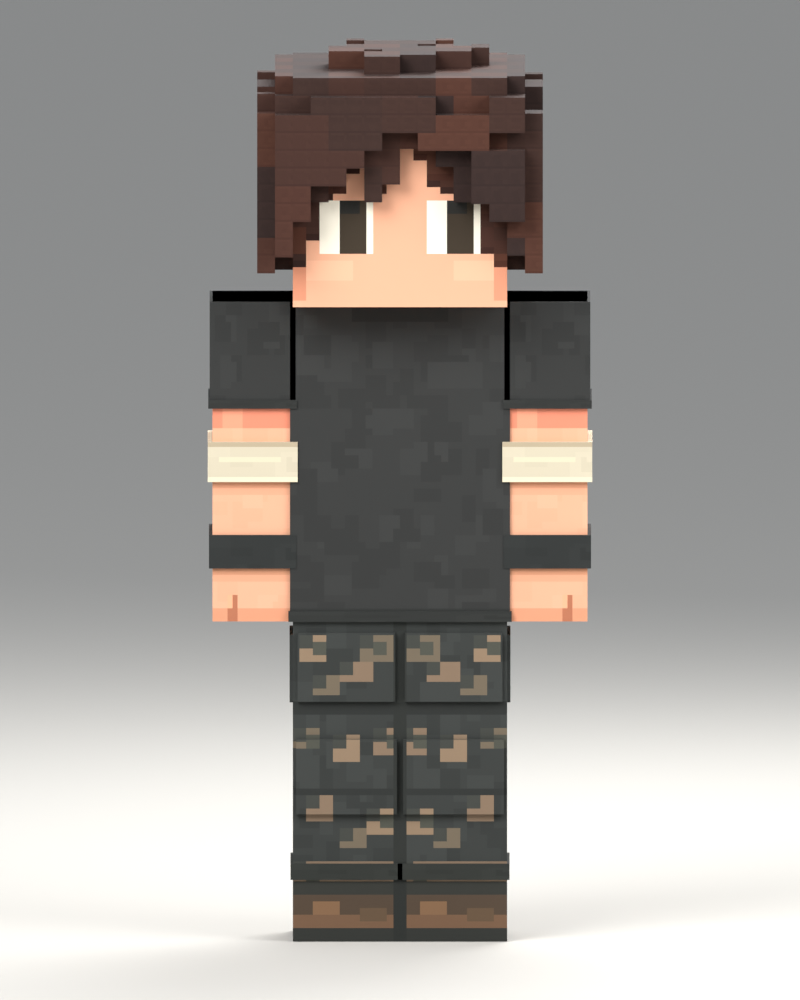
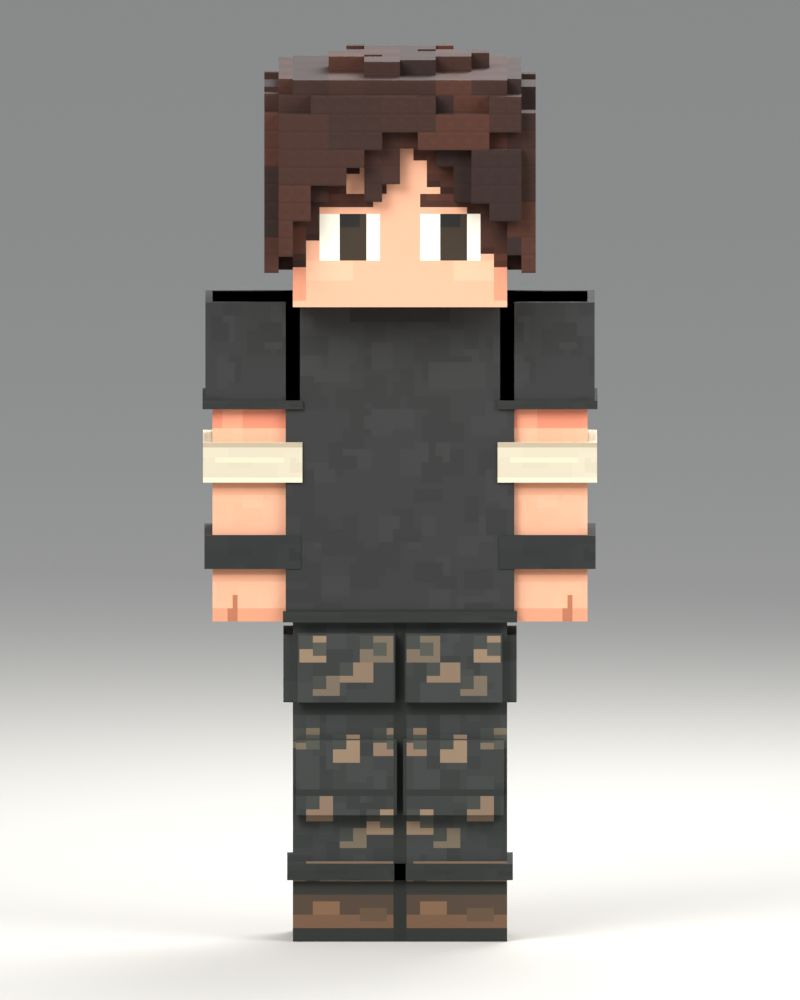
chore(project): change 8 project files
Modified: 8.
Text lines: +57 / -30; binary files: 3.
- Modify: "blender/characters/player/reviews/survivor_reference_v001/Survivor_Reference_v001.blend"
- Modify: "blender/characters/player/reviews/survivor_reference_v001/build_candidate.py"
- Modify: "blender/characters/player/reviews/survivor_reference_v001/make_atlas.py"
- Modify: "blender/characters/player/reviews/survivor_reference_v001/model_validation.json"
- Modify: "blender/characters/player/reviews/survivor_reference_v001/package_review.py"
- Modify: "blender/characters/player/reviews/survivor_reference_v001/renders/Front.png" (binary)
- Modify: "blender/characters/player/reviews/survivor_reference_v001/renders/Front_3Q.png" (binary)
- Modify: "blender/characters/player/reviews/survivor_reference_v001/survivor_atlas.png" (binary)

diff --git a/blender/characters/player/reviews/survivor_reference_v001/build_candidate.py b/blender/characters/player/reviews/survivor_reference_v001/build_candidate.py
@@ -1,5 +1,5 @@
 """Pending skin/clothing review. Append the ORIGINAL V6 body/rig read-only.
-Only requested external clothes are added; no base shape, neck, pose, Action or Godot changes.
+Original head/torso/legs retained; documented slim arms and requested external hair/clothing. No Action or Godot changes.
 """
 import bpy,math,json,sys,hashlib,struct
 from pathlib import Path
@@ -30,7 +30,7 @@ character=next(o for o in dst.objects if o.type=='MESH');rig=next(o for o in dst
 for obj in [character,rig]:asset.objects.link(obj);obj.animation_data_clear()
 for pb in rig.pose.bones:pb.matrix_basis=Matrix.Identity(4)
 for action in list(bpy.data.actions):bpy.data.actions.remove(action)
-character.name='Survivor_Reference_v001 — ORIGINAL BODY / NEW SKIN';rig.name='Original_V6_Rig — unchanged rest'
+character.name='Survivor_Reference_v001 — ORIGINAL BODY / NEW SKIN';rig.name='Original_V6_Rig — slim arm sockets'
 
 def geometry_signature(mesh):
  data=b''.join(struct.pack('<3f',*v.co) for v in mesh.vertices)
@@ -151,21 +151,21 @@ def ring(name,cx,cy,cz,inner_w,inner_d,thickness,height,bone,tile):
   faces.extend([(i,j,8+j,8+i),(4+j,4+i,12+i,12+j),(8+i,8+j,12+j,12+i),(j,i,4+i,4+j)])
  return cloth_mesh(name,verts,faces,bone,override=tile)
 
-# A6mm shirt layer/hem and short sleeves, retaining original shoulder/waist heights.
-cloth_box('Black shirt / thin external layer',(0,0,1.0125),(.462,.237,.675),'Chest','shirt3d_edge')
-ring('Shirt lower hem',0,0,.686,.462,.237,.0035,.022,'Chest','shirt3d_edge')
+# Stronger15mm shirt relief and thicker bands/panels for distant readability.
+cloth_box('Black shirt / readable external layer',(0,0,1.0125),(.480,.255,.675),'Chest','shirt3d_edge')
+ring('Shirt lower hem',0,0,.686,.480,.255,.006,.022,'Chest','shirt3d_edge')
 for side,sign in [('L',1),('R',-1)]:
  cx=sign*.309375
- cloth_box('Black short sleeve '+side,(cx,0,1.2375),(.18075,.237,.225),'Arm.'+side,'shirt3d_edge')
- ring('Sleeve hem '+side,cx,0,1.134,.18075,.237,.003,.018,'Arm.'+side,'shirt3d_edge')
- ring('White forearm wrap '+side,cx,0,1.0125,.16875,.225,.010,.084375,'Arm.'+side,'wrap3d')
- ring('Black wrist band '+side,cx,0,.82265625,.16875,.225,.0075,.0703125,'Arm.'+side,'band3d')
- # Broad stepped fabric panels,6–10mm relief; no added bag or redesigned limb.
+ cloth_box('Black short sleeve '+side,(cx,0,1.2375),(.19875,.255,.225),'Arm.'+side,'shirt3d_edge')
+ ring('Sleeve hem '+side,cx,0,1.134,.19875,.255,.006,.018,'Arm.'+side,'shirt3d_edge')
+ ring('White forearm wrap '+side,cx,0,1.0125,.16875,.225,.020,.084375,'Arm.'+side,'wrap3d')
+ ring('Black wrist band '+side,cx,0,.82265625,.16875,.225,.017,.0703125,'Arm.'+side,'band3d')
+ # Broad stepped fabric panels,20–28mm relief; no added bags or limb redesign.
  lx=sign*.1125
- cloth_box('Raised upper trouser panel '+side,(lx,-.1175,.579),(.205,.010,.145),'Leg.'+side,'pants3d_edge')
- cloth_box('Raised knee fabric panel '+side,(lx,-.118,.348),(.212,.011,.158),'Leg.'+side,'pants3d_edge')
- cloth_box('Outer trouser fabric panel '+side,(lx+sign*.116,0,.574),(.007,.199,.142),'Leg.'+side,'pants3d_edge')
- ring('Trouser lower hem '+side,lx,0,.147,.225,.225,.005,.034,'Leg.'+side,'pants3d_edge')
+ cloth_box('Raised upper trouser panel '+side,(lx,-.1245,.579),(.205,.024,.145),'Leg.'+side,'pants3d_edge')
+ cloth_box('Raised knee fabric panel '+side,(lx,-.1265,.348),(.212,.028,.158),'Leg.'+side,'pants3d_edge')
+ cloth_box('Outer trouser fabric panel '+side,(lx+sign*.1225,0,.574),(.020,.199,.142),'Leg.'+side,'pants3d_edge')
+ ring('Trouser lower hem '+side,lx,0,.147,.225,.225,.012,.034,'Leg.'+side,'pants3d_edge')
 bpy.ops.object.select_all(action='DESELECT')
 for obj in overlays:obj.select_set(True)
 bpy.context.view_layer.objects.active=overlays[0];bpy.ops.object.join();clothes=bpy.context.object
@@ -226,6 +226,12 @@ for i,j,k in sorted(occupied):
   which=lock_index(x,z,front_locks if y<0 else back_locks) if abs(direction[1]) else lock_index(y,z,side_locks)
   tone=(which*5+1)%6 if which>=0 else ((i-k//2)//2*7+j//2*3+k//2)%6
   tiles.append('hair3d_'+str(tone))
+# Latest user correction: preserve this approved-looking haircut, thin only its outer relief.
+def thinner_hair_co(co):
+ x,y,z=co
+ def thin(v):return math.copysign(.225+(abs(v)-.225)*.80,v) if abs(v)>.225 else v
+ return (thin(x),thin(y),1.80+(z-1.80)*.85 if z>1.80 else z)
+verts=[thinner_hair_co(co) for co in verts]
 mesh=bpy.data.meshes.new('Soldier / staggered voxel hair');mesh.from_pydata(verts,[],faces);mesh.update()
 hair=bpy.data.objects.new('Survivor_Hair_3D — layered brown locks',mesh);asset.objects.link(hair);mesh.materials.append(material)
 uvh=mesh.uv_layers.new(name='Survivor_Skin')
@@ -235,7 +241,7 @@ for poly,tile in zip(mesh.polygons,tiles):
  poly.use_smooth=False
 vg=hair.vertex_groups.new(name='Head');vg.add(list(range(len(mesh.vertices))),1.,'REPLACE')
 mod=hair.modifiers.new('Rigid Head follow','ARMATURE');mod.object=rig;hair.parent=rig
-hair['scope']='User-requested3D hair only; original head cube is unchanged';hair['hair_voxel_m']=CELL
+hair['scope']='User-requested3D hair only; original head cube is unchanged';hair['hair_voxel_m']=CELL;hair['outer_relief_multiplier']=.80
 mesh.calc_loop_triangles()
 
 # Nothing below changes any body vertex, face, normal, bone or skin weight.
@@ -249,8 +255,8 @@ asset.asset_mark();asset.asset_data.description='Pending skin and3D clothes on o
 asset['review_status']='Pending'
 reference=bpy.data.images.load(str(OUT/'primary_reference.png'));reference.name='PRIMARY — supplied six-view character';reference.pack();reference.use_fake_user=True
 ref=bpy.data.objects.new('PRIMARY REFERENCE — viewport only',None);refs.objects.link(ref);ref.empty_display_type='IMAGE';ref.data=reference;ref.empty_display_size=2.5;ref.location=(2,1,1);ref.hide_render=True;ref.hide_set(True)
-notes=bpy.data.texts.new('START HERE — SKIN ONLY')
-notes.write('PENDING / Survivor Reference v001\nOriginal V6 head/body/legs exact; older3x12x4 slim arms restored;48base vertices, no neck.\nNew skin plus user-requested3D clothing: white/black arm bands, black shirt and trouser relief.\nLarge eyes only; no nose/mouth. A separate3D brown hair layer surrounds the unchanged original head cube.\nNo new Action or Godot integration.\nCameras Front / Front_3Q / Left_Side / Back / Right_Side / Back_3Q.\nNumpad0: camera; F12: render. Images packed.\n')
+notes=bpy.data.texts.new('START HERE — SOLDIER SKIN')
+notes.write('PENDING / Survivor Reference v001\nOriginal V6 head/body/legs exact; older3x12x4 slim arms restored;48base vertices, no neck.\nNew skin plus stronger3D clothing relief: white/black arm bands, black shirt and trouser panels.\nLarge9x7pixel eyes and short brown eyebrows; no nose/mouth. A separate3D brown hair layer surrounds the unchanged original head cube.\nNo new Action or Godot integration.\nCameras Front / Front_3Q / Left_Side / Back / Right_Side / Back_3Q.\nNumpad0: camera; F12: render. Images packed.\n')
 
 def studio_mat(name,color):
  m=bpy.data.materials.new(name);m.diffuse_color=(*color,1);m.use_nodes=True
@@ -286,7 +292,7 @@ for im in list(bpy.data.images):
 scene['review_cameras']=json.dumps(list(views));scene['skin_only']=False;scene['original_body_unchanged']=False;scene['non_arm_original_geometry_exact']=True;scene['slim_arms']=True;scene['requested_clothing_relief']=True
 bpy.ops.wm.save_as_mainfile(filepath=str(FILE),compress=True)
 character.data.calc_loop_triangles()
-report={'candidate':FILE.name,'status':'Pending','skin_only':False,'original_body_unchanged':False,'non_arm_original_geometry_exact':True,'slim_arm_dimensions_wld_m':[.16875,.675,.225],'slim_arm_reference':'blender/characters/player/cuboid/create_slim_arm_study.py (3x12x4)','vertices':len(character.data.vertices),'triangles':len(character.data.loop_triangles),'quads':len(character.data.polygons),'materials':len(character.data.materials),'bones':len(rig.data.bones),'actions':len(bpy.data.actions),'body_source_sha256':source_hash,'original_geometry_sha256':original_geometry,'body_geometry_sha256':adapted_geometry,'geometry_exact':False,'non_arm_geometry_exact':True,'non_arm_rest_skeleton_exact':True,'arm_pivots_seated_to_body':True,'weights_exact':True,'no_neck_geometry':True,'no_nose_or_mouth':True,'added_3d_clothing_only':True,'clothing_vertices':len(clothes.data.vertices),'clothing_triangles':len(clothes.data.loop_triangles),'clothing_parts':['Black shirt and short sleeves','White forearm wraps','Black wrist bands','Trouser fabric panels and hems'],'volumetric_hair':True,'hair_vertices':len(hair.data.vertices),'hair_triangles':len(hair.data.loop_triangles),'hair_style':'Curated staggered3D locks, dark warm brown palette','rigid_bounds_m':body_bounds,'packed_images':[im.name for im in bpy.data.images if im.packed_file],'review_cameras':list(views),'gameplay_integrated':False}
+report={'candidate':FILE.name,'status':'Pending','skin_only':False,'original_body_unchanged':False,'non_arm_original_geometry_exact':True,'slim_arm_dimensions_wld_m':[.16875,.675,.225],'slim_arm_reference':'blender/characters/player/cuboid/create_slim_arm_study.py (3x12x4)','vertices':len(character.data.vertices),'triangles':len(character.data.loop_triangles),'quads':len(character.data.polygons),'materials':len(character.data.materials),'bones':len(rig.data.bones),'actions':len(bpy.data.actions),'body_source_sha256':source_hash,'original_geometry_sha256':original_geometry,'body_geometry_sha256':adapted_geometry,'geometry_exact':False,'non_arm_geometry_exact':True,'non_arm_rest_skeleton_exact':True,'arm_pivots_seated_to_body':True,'weights_exact':True,'no_neck_geometry':True,'no_nose_or_mouth':True,'requested_3d_clothing':True,'relief_m':{'shirt':.015,'white_wrap':.020,'black_band':.017,'trouser_panels':[.020,.024,.028],'trouser_hem':.012},'hair_outer_relief_multiplier':.80,'eyebrows':True,'eye_pixels_wh':[9,7],'clothing_vertices':len(clothes.data.vertices),'clothing_triangles':len(clothes.data.loop_triangles),'clothing_parts':['Black shirt and short sleeves','White forearm wraps','Black wrist bands','Trouser fabric panels and hems'],'volumetric_hair':True,'hair_vertices':len(hair.data.vertices),'hair_triangles':len(hair.data.loop_triangles),'hair_style':'Curated staggered3D locks, dark warm brown palette','rigid_bounds_m':body_bounds,'packed_images':[im.name for im in bpy.data.images if im.packed_file],'review_cameras':list(views),'gameplay_integrated':False}
 assert report['vertices']==48 and report['triangles']==72 and report['quads']==36 and report['actions']==0
 assert hashlib.sha256(SOURCE.read_bytes()).hexdigest()==source_hash
 (OUT/'model_validation.json').write_text(json.dumps(report,indent=2));print('MODEL_VALIDATION',json.dumps(report),flush=True)

diff --git a/blender/characters/player/reviews/survivor_reference_v001/package_review.py b/blender/characters/player/reviews/survivor_reference_v001/package_review.py
@@ -8,8 +8,8 @@ views=['Front','Front_3Q','Left_Side','Back','Right_Side','Back_3Q']
 labels={'Front':'FRONT','Front_3Q':'FRONT 3/4','Left_Side':'SIDE','Back':'BACK','Right_Side':'OTHER SIDE','Back_3Q':'BACK 3/4'}
 for names,file in [(views[:4],'review_four_views.jpg'),(views,'review_six_views.jpg')]:
  canvas=Image.new('RGB',(480*len(names),704),(236,232,225));d=ImageDraw.Draw(canvas)
- d.text((24,13),'SURVIVOR / SKIN + CLOTHING REVIEW',font=TITLE,fill=(52,43,35))
- d.text((24,47),'Original body | 3D shirt, bands and trouser detail | No neck / nose / mouth | PENDING',font=SMALL,fill=(91,79,65))
+ d.text((24,13),'SOLDIER / CHARACTER REVIEW',font=TITLE,fill=(52,43,35))
+ d.text((24,47),'Original proportions + slim arms | Layered hair / stronger clothing relief | PENDING',font=SMALL,fill=(91,79,65))
  for i,name in enumerate(names):
   im=Image.open(OUT/'renders'/f'{name}.png').convert('RGB').resize((480,600),Image.Resampling.LANCZOS)
   canvas.paste(im,(480*i,80));d.text((480*i+240,686),labels[name],font=SMALL,anchor='mm',fill=(52,43,35))
@@ -18,7 +18,7 @@ for names,file in [(views[:4],'review_four_views.jpg'),(views,'review_six_views.
 reference=Image.open(OUT/'primary_reference.png').convert('RGB').crop((20,250,275,814))
 candidate=Image.open(OUT/'renders'/'Front.png').convert('RGB').crop((160,40,640,965))
 canvas=Image.new('RGB',(880,820),(236,232,225));d=ImageDraw.Draw(canvas)
-for x,im,label in [(0,reference,'SUPPLIED REFERENCE'),(440,candidate,'NEW SKIN / ORIGINAL BODY')]:
+for x,im,label in [(0,reference,'SUPPLIED REFERENCE'),(440,candidate,'SOLDIER / EXISTING PROPORTIONS')]:
  im=im.resize((round(im.width*710/im.height),710),Image.Resampling.LANCZOS)
  canvas.paste(im,(x+(440-im.width)//2,58));d.text((x+220,29),label,font=SMALL,anchor='mm',fill=(52,43,35))
 d.text((440,795),'Body proportions follow the existing player, as requested.',font=SMALL,anchor='mm',fill=(91,79,65))

diff --git a/blender/characters/player/reviews/survivor_reference_v001/make_atlas.py b/blender/characters/player/reviews/survivor_reference_v001/make_atlas.py
@@ -48,16 +48,20 @@ def hair_paint(im,mask,seed):
    y=max(ys);c=im.getpixel((x,y));im.putpixel((x,y),tuple(max(0,v-12) for v in c))
  return im
 
-# FACE: eyes only, no nose, mouth, eyebrows, or sculpted facial parts.
+# FACE: latest user request adds short brown eyebrows; no nose or mouth.
 im,d=paint(32,32,SKIN)
 d.rectangle((0,13,1,30),fill=(218,143,111));d.rectangle((30,13,31,30),fill=(219,146,114))
 fringe=[26,22,16,15,12,11,15,12,8,10,14,15,15,18,24,26]
 hair_paint(im,lambda x,y:y<fringe[x//2],0)
 d=ImageDraw.Draw(im)
-for x in [4,20]:
- d.rectangle((x,16,x+7,23),fill=(249,241,222))
- d.rectangle((x+3,16,x+6,23),fill=(54,43,29))
- d.rectangle((x+3,16,x+5,17),fill=(28,27,23))
+for x in [4,19]:
+ # Slightly wider, less tall than the previous8x8 eye; closer paired spacing.
+ d.rectangle((x,18,x+8,24),fill=(249,241,222))
+ d.rectangle((x+3,18,x+6,24),fill=(54,43,29))
+ d.rectangle((x+3,18,x+5,19),fill=(28,27,23))
+ # Fine warm-brown brows, partly tucked beneath the unchanged fringe.
+ d.rectangle((x,15,x+7,16),fill=(69,35,21))
+ d.rectangle((x+1,15,x+6,15),fill=(81,42,25))
 d.rectangle((2,25,8,27),fill=(244,182,148));d.rectangle((24,25,29,27),fill=(244,182,148))
 store('head_front',im)
 for side in ['left','right']:
@@ -136,4 +140,4 @@ for i,color in enumerate(HAIR_3D):
  d.rectangle((0,7,7,7),fill=tuple(max(0,c-5) for c in color))
  store('hair3d_'+str(i),im)
 ATLAS.save(OUT/'survivor_atlas.png');(OUT/'atlas_regions.json').write_text(json.dumps(regions,indent=2))
-print('Painted skin-only atlas:',len(regions),'regions')
+print('Painted Soldier atlas:',len(regions),'regions')
